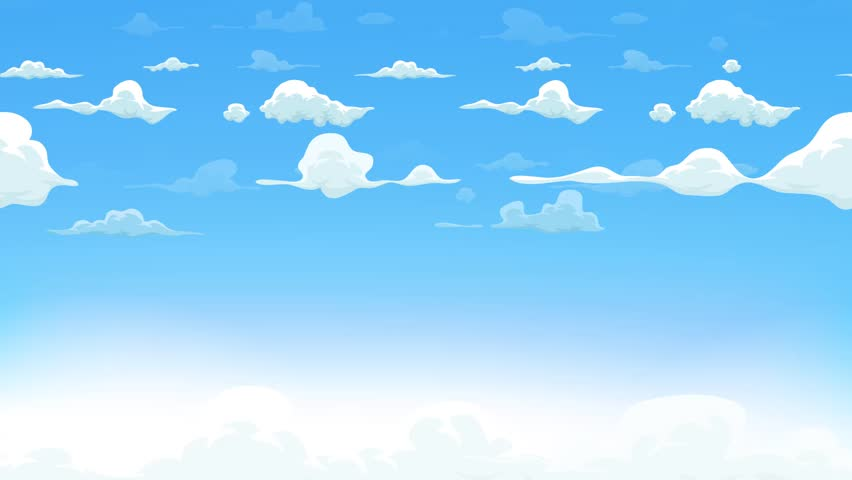
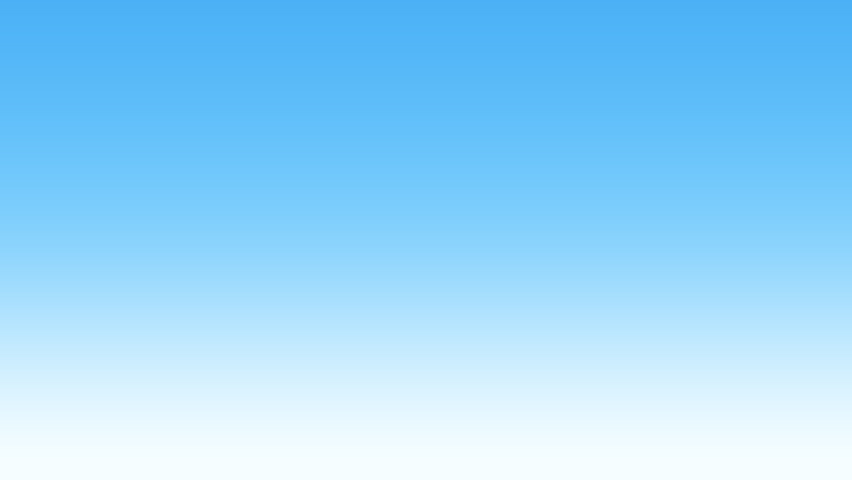
Finished the animation!

diff --git a/script.js b/script.js
@@ -1,5 +1,17 @@
 window.onload = function what() {
   var Boat = document.getElementById('Boat').style;
+  var Background = document.getElementById('Background');
+
+  var cloudArray = [
+    document.querySelector("body > div > div.clouds > .cloud:nth-child(1)"),
+    document.querySelector("body > div > div.clouds > .cloud:nth-child(2)"),
+    document.querySelector("body > div > div.clouds > .cloud:nth-child(3)"),
+    document.querySelector("body > div > div.clouds > .cloud:nth-child(4)"),
+  ];
+
+  var wave = document.querySelector("body > div > div.waves");
+
+  console.log("Width: " + Background.offsetWidth);
 
   var amp = 12/2;
   var freq = 1/32;
@@ -8,15 +20,58 @@ window.onload = function what() {
 
   var angleAmp = 2;
 
-  var id = setInterval(frame, 5);
+  var boatId = setInterval(boatAnim, 5);
+  var cloudId = setInterval(cloudAnim, 30);
+  var waveId = setInterval(waveAnim, 20);
 
-  function frame() {
+  var spawnWidth = 3000;
+  var randomness = 40;
+  var cloudHeight = 100;
+  var cloudHeightRand = 300;
+
+  var cloudCoors = [[0,0],[0,0],[0,0],[0,0]];
+
+  cloudArray.forEach((cloud, i) => {
+    cloudCoors[i] = [(Math.ceil(Math.random() * randomness)+ spawnWidth*i/4),(Math.ceil(Math.random() *cloudHeightRand)-cloudHeight)]
+    cloud.style.transform = "scale(0.5)"+ " translate(" + cloudCoors[i][0] + "px," + cloudCoors[i][1] + "px)";
+  });
+
+
+
+  function cloudAnim() {
+    cloudArray.forEach((cloud, i) => {
+      //if it hits the end reset the various things
+      if (cloudCoors[i][0]>2200) {
+        var cloudNum = Math.ceil(Math.random() * 5);
+        cloudCoors[i][0] = -800;
+        cloudCoors[i][1] = (Math.ceil(Math.random() *cloudHeightRand)-cloudHeight);
+      }
+      cloudCoors[i][0] += 1;
+      cloud.style.transform = "scale(0.5)"+ " translate(" + cloudCoors[i][0] + "px," + cloudCoors[i][1] + "px)";
+    });
+
+  }
+
+  var waveX = 0;
+  //wave the entire wave snaps back exactly on top of itself so the movement looks seemless
+  var breakPoint = 197;
+
+  function waveAnim() {
+    if (waveX == breakPoint) {
+      waveX = 1;
+    }else {
+      waveX++;
+    }
+
+    wave.style.transform = "translateX(" + waveX + "px)";
+
+  }
+
+  function boatAnim() {
     position = amp*Math.sin(i*freq*Math.PI*2);
     angle = angleAmp*Math.atan(-amp*freq*Math.PI*2*Math.cos(i*freq*Math.PI*2));
     Boat.transform = "translateY(" + position + "px) " + "rotate(" + angle + "deg)";
-    console.log(position);
 
     i += 0.05;
-
   }
 }

diff --git a/main.html b/main.html
@@ -12,15 +12,47 @@
   <div class="wrapper">
     <img src="Basic_Boat.png" alt="" id="Boat">
     <img src="CloudBackground.jpg" alt="" id="Background">
+    <div class="clouds">
+      <img src="Cloud(1).png" alt="" class="cloud">
+      <img src="Cloud(2).png" alt="" class="cloud">
+      <img src="Cloud(3).png" alt="" class="cloud">
+      <img src="Cloud(4).png" alt="" class="cloud">
+    </div>
     <div class="waves">
-      <img src="kindpng_9696.png" alt="" class="wave">
-      <img src="kindpng_9696.png" alt="" class="wave">
+      <img src="Waves.png" alt="" class="wave">
+      <img src="Waves.png" alt="" class="wave">
+      <img src="Waves.png" alt="" class="wave">
+      <img src="Waves.png" alt="" class="wave">
+      <img src="Waves.png" alt="" class="wave">
+      <img src="Waves.png" alt="" class="wave">
+      <img src="Waves.png" alt="" class="wave">
     </div>
     <div class="ocean"></div>
     <ul class="upgradeMenu">
-      <li><b>Upgrade Hull</b></br><img scr="Coin.png" alt="Cost: ">100</li>
-      <li>Upgrade Sail</li>
-      <li>Upgrade Cannon</li>
+      <li>
+        <div class="upgradeText">
+          <b>Upgrade Hull</b>
+        </div>
+        <div>
+          <img src="Coin.png" alt="" class="coinIcon">100
+        </div>
+      </li>
+      <li>
+        <div class="upgradeText">
+          <b>Upgrade Sail</b>
+        </div>
+        <div>
+          <img src="Coin.png" alt="" class="coinIcon">100
+        </div>
+      </li>
+      <li>
+        <div class="upgradeText">
+          <b>Upgrade Cannons</b>
+        </div>
+        <div>
+          <img src="Coin.png" alt="" class="coinIcon">100
+        </div>
+      </li>
     </ul>
   </div>
 </body>

diff --git a/master.css b/master.css
@@ -20,15 +20,26 @@
   z-index: -10;
 }
 
-.wave {
+.clouds {
   position: absolute;
-  width: 550px;
-  top: 350px;
-  z-index: 10;
 }
 
-.wave:nth-child(1){
-  left: 550px;
+.cloud {
+  position: absolute;
+}
+
+.waves {
+  position: absolute;
+  display: flex;
+  width: 1102px;
+  top: 350px;
+  left: -275px;
+  z-index: 3;
+}
+
+.wave {
+  margin: 0 -1px;
+  width: 200px;
 }
 
 .ocean {
@@ -37,34 +48,46 @@
   height: 230px;
   top: 400px;
   z-index: -1;
-  background-color: #aad4ff;
+  background-color: #12499e;
+  background-image: linear-gradient(#12499e 50%, #15376b);
 }
 
 .wrapper {
   position: relative;
 }
 
-.coinIcon{
-  width: 10px;
+.coinIcon {
+  width: 12px;
+}
+
+.upgradeText {
+  margin-bottom: 5px;
 }
 
 .upgradeMenu {
+  padding: 0;
   position: absolute;
   display: flex;
+  justify-content: space-around;
+  align-items: center;
   list-style: none;
+  width: 1000px;
+  height: 200px;
+  left: 50px;
+  top: 420px;
+  z-index: 100;
 }
 
 .upgradeMenu li {
-  margin: 10px;
+  margin: auto;
   background-color: #12499e;
   color: white;
-  padding: 10px;
+  padding: 15px;
   transition: 0.5s;
 }
 
 .upgradeMenu li:hover {
-  margin: 10px;
   background-color: #adb3da;
   color: white;
-  padding: 10px 15px;
+  padding: 10px 20px;
 }
